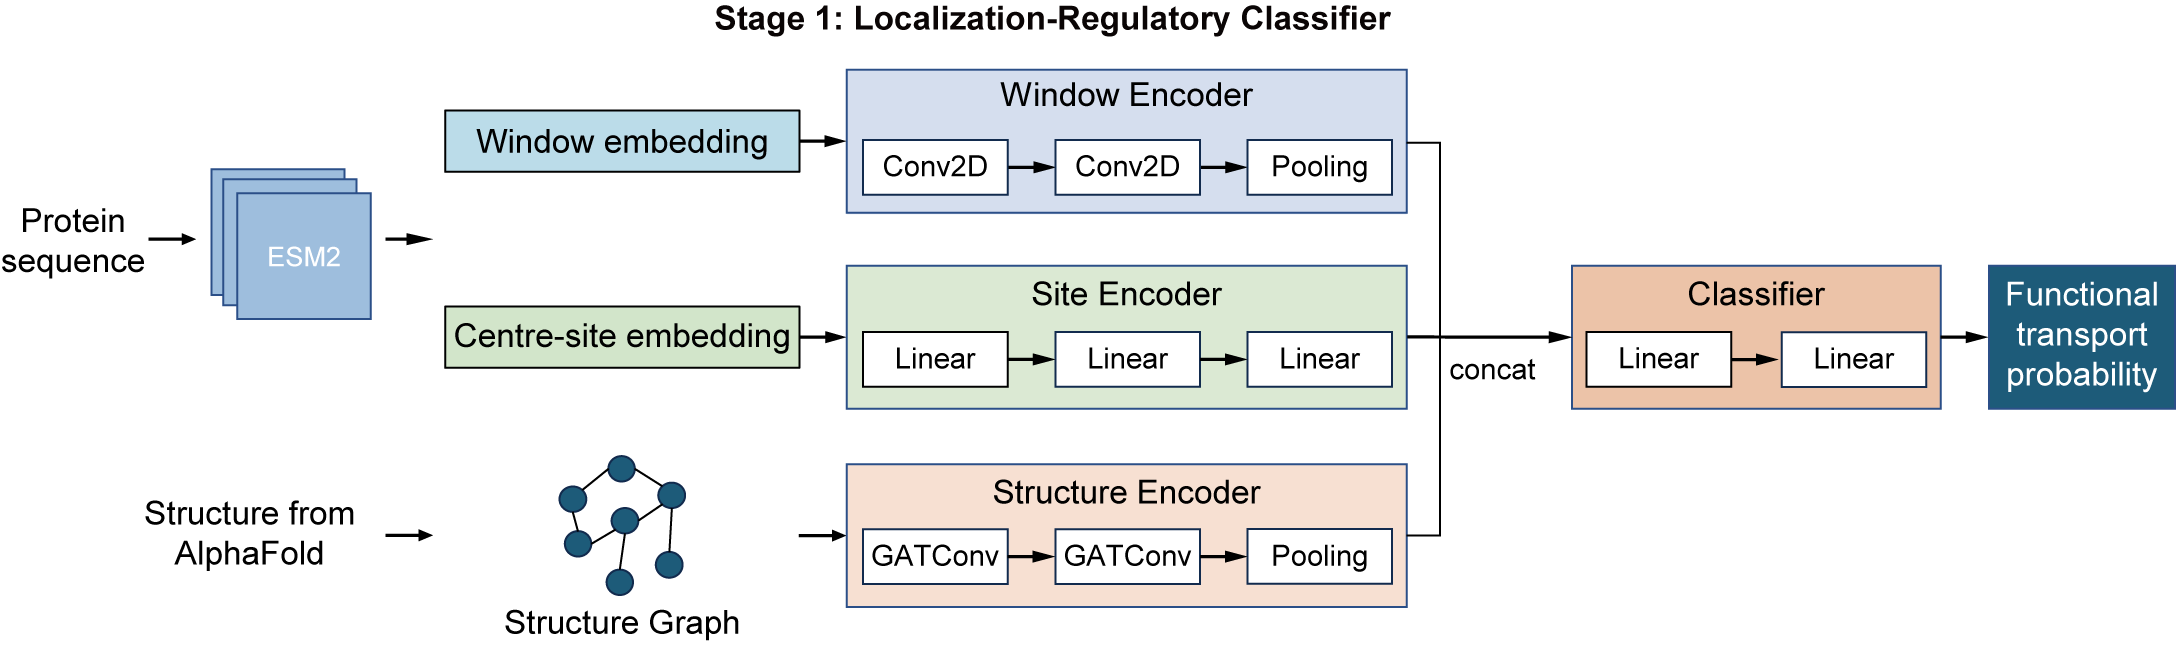
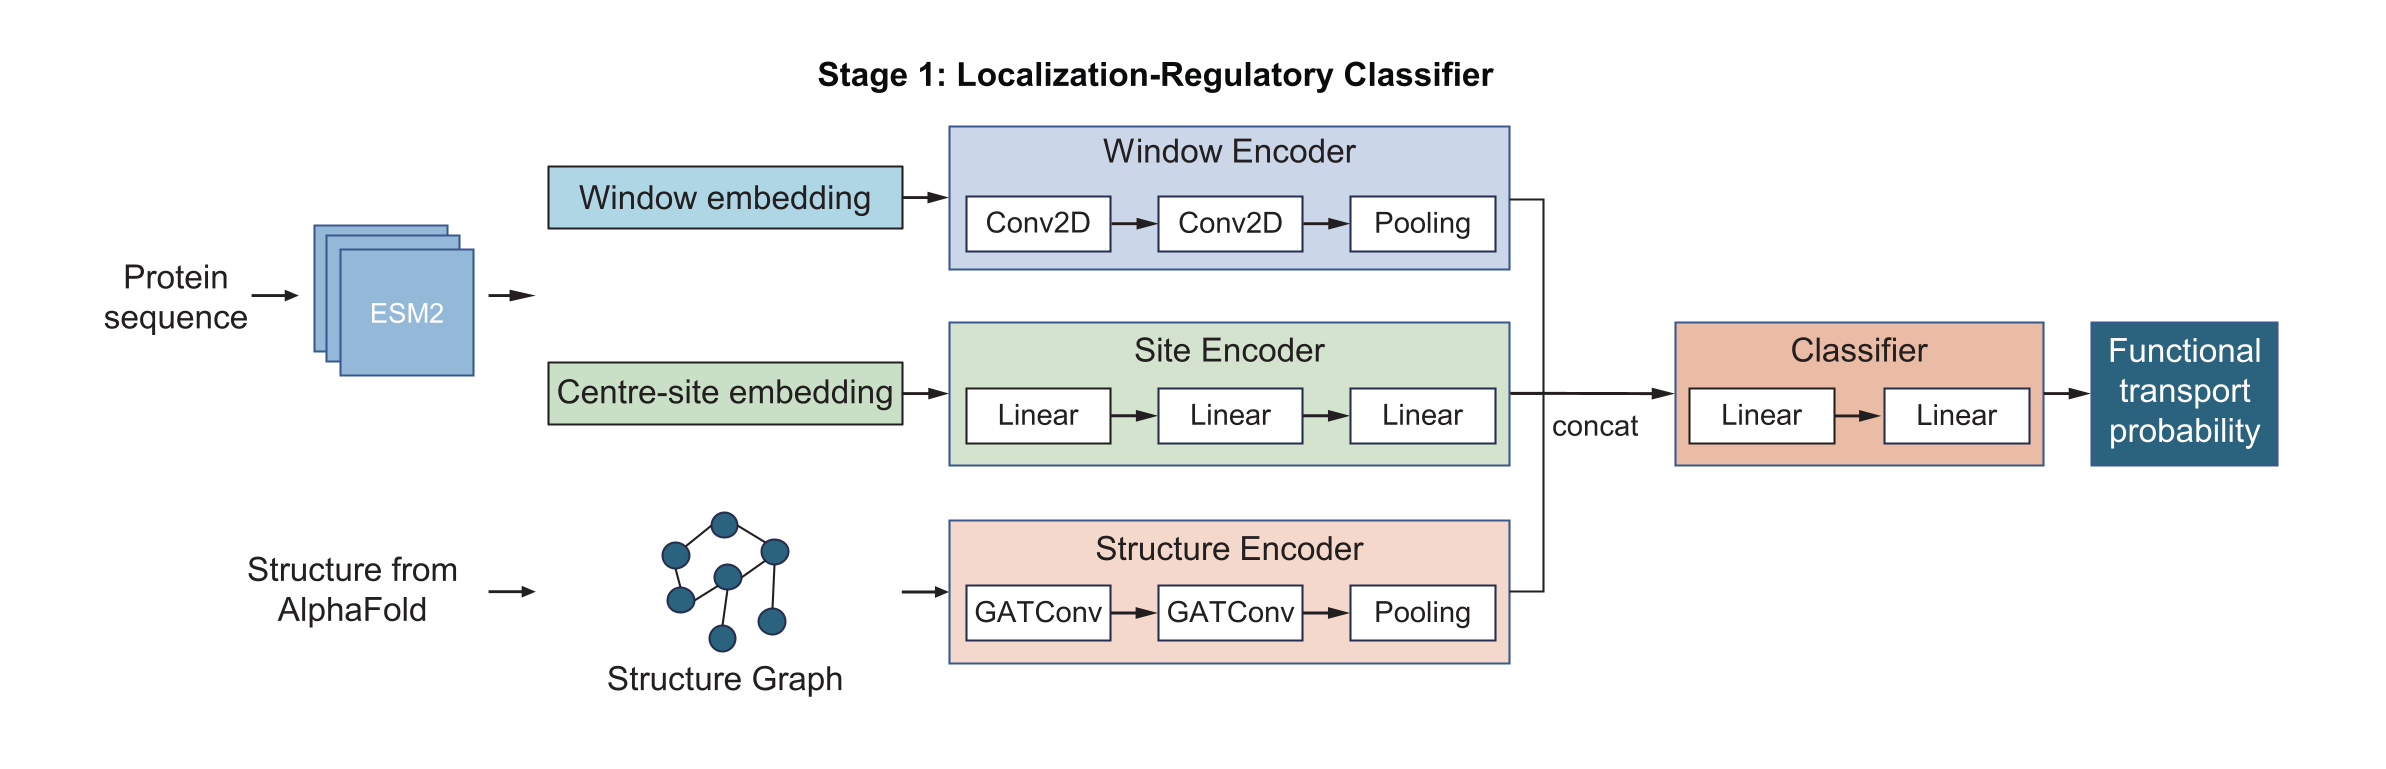
docs: refresh README figure assets

Changed region(s): [[0.0, 0.2481, 1.0, 0.9922], [0.1875, 0.0, 0.6562, 0.3721], [0.0625, 0.7132, 0.2188, 0.8992]]

diff --git a/README.md b/README.md
@@ -2,7 +2,7 @@
 
 PhosLoc-Transport is a two-stage framework for prioritizing transcription factor phosphosites that may regulate nuclear transport. The Localization-Regulatory Classifier integrates local sequence, central phosphosite, and AlphaFold-derived structural features to identify candidate localization-regulatory sites; the Localization Direction Classifier predicts whether candidate sites are associated with nuclear accumulation or cytoplasmic redistribution.
 
-<img src="docs/assets/phosphorylation-dependent-tf-localization.png" alt="Phosphorylation-dependent control of TF localization" width="720">
+![Phosphorylation-dependent control of TF localization](docs/assets/phosphorylation-dependent-tf-localization.png)
 
 This monorepo contains **three analysis modules**:
 